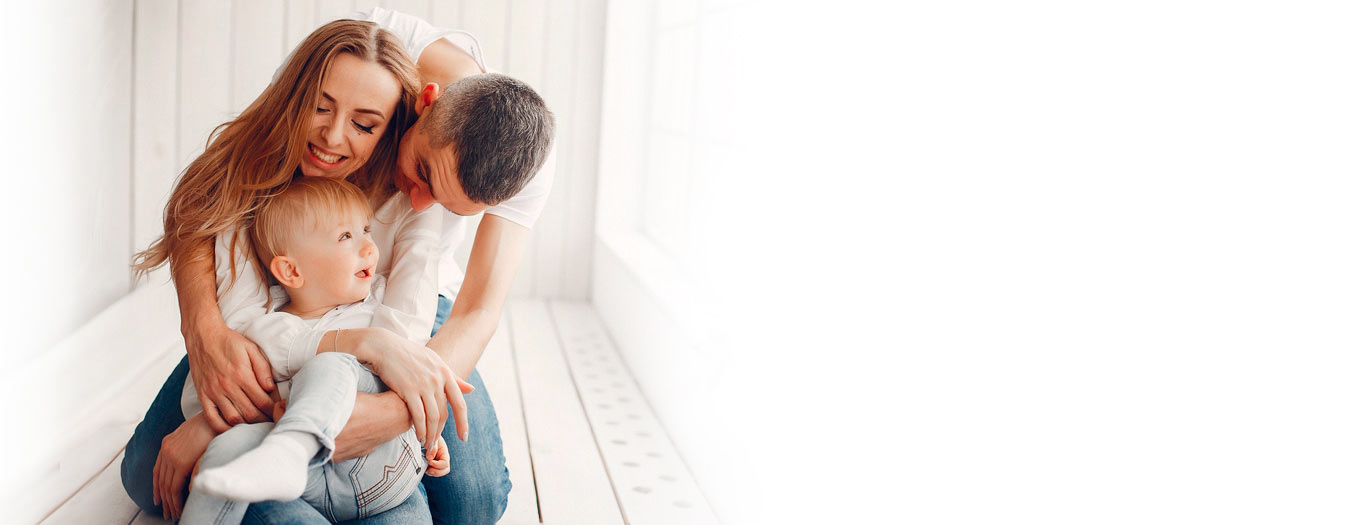
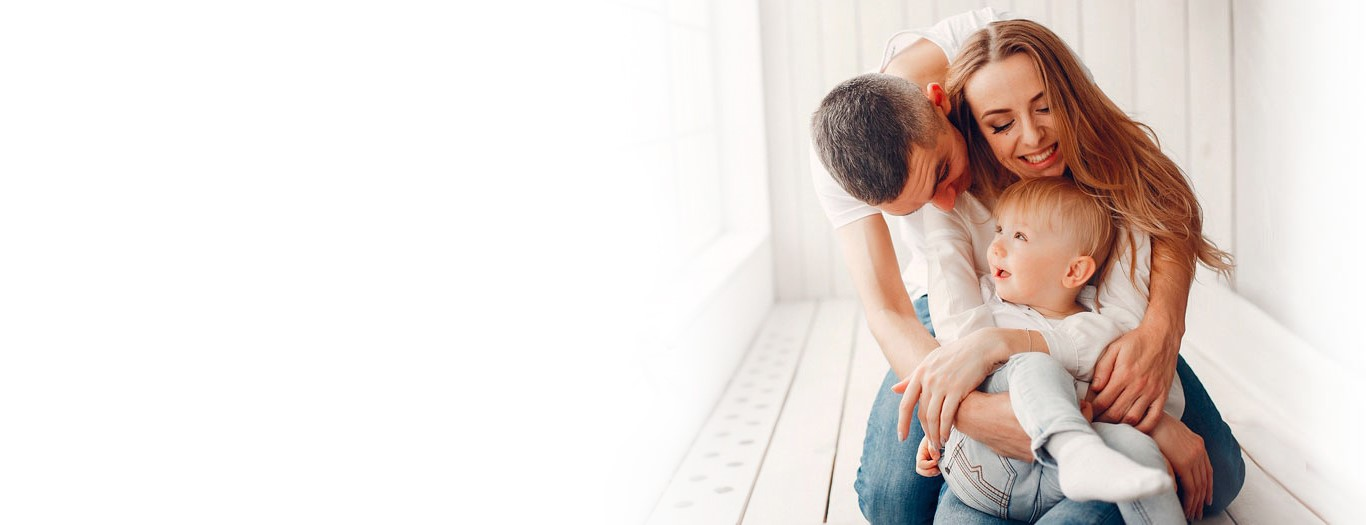
Imágenes orientadas

diff --git a/assets/css/style.css b/assets/css/style.css
@@ -10,7 +10,6 @@ body {
     font-size: 0.9rem;
 }
 
-
 .navbar {
     width: 100%;
     background-color: white;
@@ -131,13 +130,14 @@ body {
 
 .caption {
     position: absolute;
-    bottom: 8px;
-    left: 50%;
-    transform: translateX(-50%);
-    background-color: rgba(0, 0, 0, 0.5);
-    color: #fff;
+    top: 50%;
+    left: 25%;
+    transform: translate(-50%, -50%);
+    color: #ffffff;
     padding: 8px 12px;
     border-radius: 4px;
+    background-color: rgba(0, 0, 0, 0.3);
+    font-size: 2rem;
 }
 
 .prev, .next {

diff --git a/index.html b/index.html
@@ -36,7 +36,7 @@
                 <div class="carousel-slide">
                     <img src="./assets/images/1.jpeg" alt="Imagen 1">
                     <div class="caption">
-                        <p>Cuidá tu salud y la de tu familia. Las mejores coberturas, al mejor precio. Elegí el mejor plan médico.</p>
+                        <p>Cuidá tu salud y la de tu familia.</p>
                         <button class="quote-button">Cotizá tu PLAN ahora</button>
                     </div>
                 </div>
